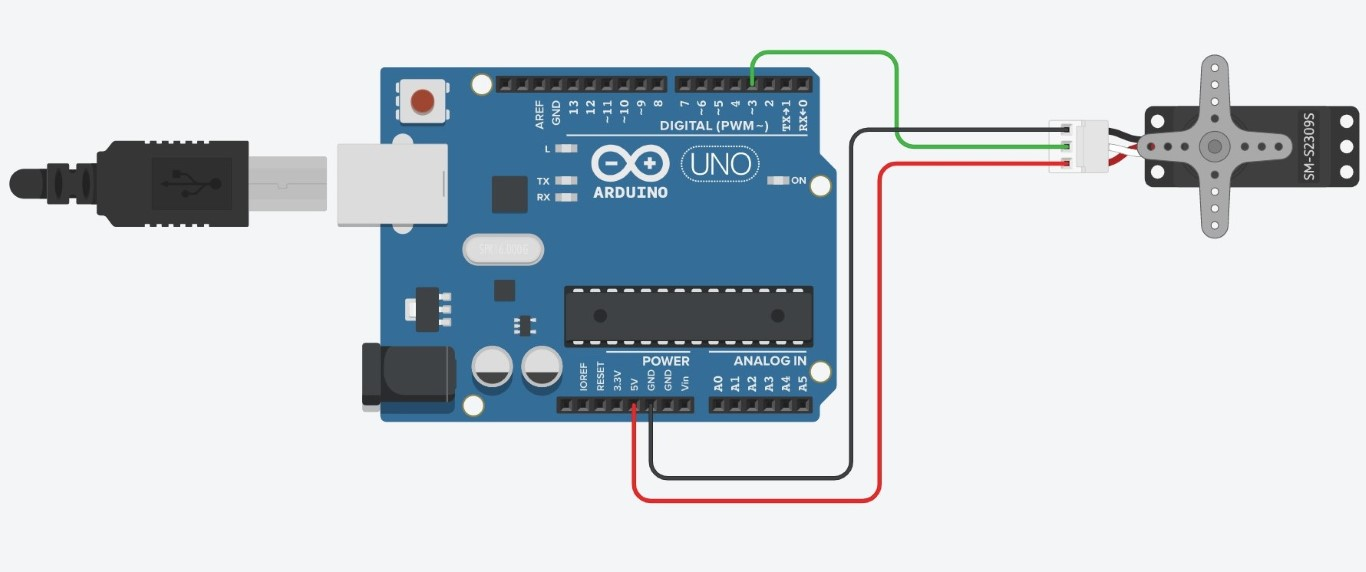
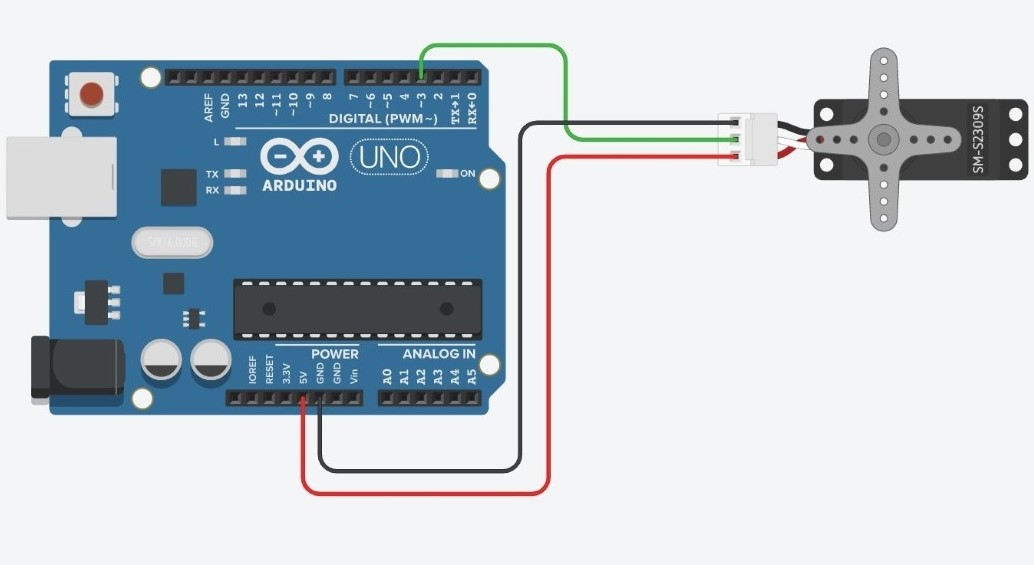
Major Updates!!! Added Arduino Create Added Servo Motor Guide Added Fancy Font

diff --git a/Servos.html b/Servos.html
@@ -35,12 +35,48 @@
   <a href=  "javascript:void(0)" class="dropbtn">Component Guides</a>
   <div class= "dropdown-content">
     <a href = "RGB LED.html">Multi-Colored LED</a>
+    <a href = "Servos.html">Servo Motors</a>
   </div>
   </li>
     </ul>
   </div>
-
     <div class = "text">
+      <h2> Servo Motors </h2>
+      <p>Servo motors are small motors that can turn to a specific angle between 0 and 180 degrees. Servos are very easy to connect to an Arduino and begin using.</p>
+      <h3>Wiring Servos to an Arduino</h3>
+      <p>To connect a servo to an Arduino, simply connect the two edge wires to the 5V and GND pins and the center wire to one of the PWM pins. You do not need a resistor to do this. Here is an example of a servo connected to the arduino on pin 3 with and without a breadboard.</p>
+      <div class = "imglink">
+        <a target = "_blank" href = "Images-original/Servo-Hookup.png">
+        <img src = "Images/Servo-Hookup.png" height = "230px">
+      </a>
+      </div>
+      <div class = "imglink">
+        <a target = "_blank" href = "Images-original/Servo-Hookup-NoBread.jpg">
+        <img src = "Images/Servo-Hookup-NoBread.jpg" height = "230px">
+      </a>
+      </div>
+      <br clear = all>
+      <p>You will want to use a breadboard if you are using the 5V pin for more than one device. For example, you might need to connect both a servo motor and a light sensor to the Arduino, which both need the 5V pin.</p>
+      <h3> The Servo Library </h3>
+      <p>To use the servo library, you must first put an include statement in the beginning of your code:</p>
+      <code class = "txt"><pre>  #<span style = "color: green">include</span> &lt;<span style = "color:red;"><b>Servo</b></span>.h></pre></code>
+      <p>This will allow you to use the functions from the servo library. To begin using your servo motor, you will need to create a servo object in your code. To create a servo object, write:</p>
+      <code class = "txt"><pre>  <span style = "color:red;"><b>Servo</b></span> servoName;</pre></code>
+      <p>Create the servo object by first typing the word Servo (capital ‘S’), then assigning it a name that you will use to refer to it later (you can think of this like declaring a variable). In this case, the name is servoName. You will put this line of code right after the “#include <Servo.h>” statement. </p>
+      <h4>void setup</h4>
+      <p>Within the void setup portion of your code, you will tell the Arduino which pin the servo is connected to with the attach function:</p>
+      <code class = "txt"><pre>  servoName.<span style = "color:red;">attach</span>(3);</pre></code>
+      <p>This line tells the computer that your servo motor is connected to pin 3.</p>
+      <h4>void loop</h4>
+      <p>Within the void loop portion of your code, you will tell the Arduino to move the servo to whichever position you want. To do this, use the write function:</p>
+      <code class = "txt"><pre>  servoName.<span style = "color:red;">write</span>(90);</pre></code>
+      <p>This function tells the Arduino to turn to the position 90 degrees. This doesn’t mean that the Arduino will turn 90 degrees from where it is now. It will turn to the position that is 90 degrees from some starting position. After you write this code you will need to include a “delay();” statement to give the servo time to move.</p>
+      <h3>Sample Code</h3>
+      <iframe src=https://create.arduino.cc/editor/ormesa-eb/10b9d36e-2de8-48ad-838e-0d5e897500f8/preview?embed style="height:510px;width:80%;margin:10px 0" frameborder=0></iframe>
+      <p>After uploading the code successfully, try changing the value within the function “myServo.write();” to 45. What happens?</p>
+      <iframe src=https://create.arduino.cc/editor/ormesa-eb/acb92735-cfaa-4aaa-b77b-a6270eff6666/preview?embed style="height:510px;width:80%;margin:10px 0" frameborder=0></iframe>
+      <p>This program tells the Arduino to rotate from 0 to 180 degrees by turning 1 degree at a time. In each iteration of the for loop, the Arduino increases the position by 1(“pos += 1”), tells the servo to turn to that position(“myServo.write”), then waits for the servo to turn that one degree (“delay”). To change the speed, simply change the number within the “delay” functions. To change the angles of rotation, change the “0” and “180” values inside the for loop to whatever you want it to be.</p>
+
     </div>
   </body>
 </html>

diff --git a/Interactive Lesson 2.html b/Interactive Lesson 2.html
@@ -35,6 +35,7 @@
 <a href=  "javascript:void(0)" class="dropbtn">Component Guides</a>
 <div class= "dropdown-content">
   <a href = "RGB LED.html">Multi-Colored LED</a>
+  <a href = "Servos.html">Servo Motors</a>
 </div>
 </li>
 
@@ -93,22 +94,10 @@
 
 <h4> Potentiometer Code </h4>
 <p>Now enter the following code into the Arduino IDE and upload it: </p>
-<pre> <code class = "txt">
-<span style = "color: blue;">int</span> reading = 0;
-
-<span style = "color: blue">void </span>setup(){
-  Serial.begin(9600);
-  Serial.println("MESA Rocks!");
-}
-
-<span style = "color: blue;">void </span>loop(){
-  reading = analogRead(A0);
-  Serial.print("Value: ");
-  Serial.println(reading);
-}
-</code></pre>
+<iframe src=https://create.arduino.cc/editor/ormesa-eb/37478716-9db0-4d74-9655-6aa0fa7fc4c4/preview?embed style="height:510px;width:80%;margin:10px 0" frameborder=0></iframe>
 <h4> Explore the Code </h4>
 <div class = "questions">
+<p>Discuss the following questions with your group:</p>
 <ol class = "a">
   <img src = "Images/Serial-Monitor.png" class = "img1" height = 60>
   <li> Click on the magnifying glass icon in the Arduino IDE. Turn the potentiometer and look at the values on the screen. What is going on? <br> <br> </li>
@@ -171,20 +160,7 @@
 <p>Notice that the code doesn’t change. Also note that the wire to A0, one wire from the sensor, and one wire from the resistor are all connected.  Move your hand over the sensor. How do the values change? Try switching the resistor and the sensor.  How does that change the values? </p>
 <h4> Code </h4>
 <p> (This is exactly the same as the code above.) </p>
-<pre> <code class = "txt">
-<span style = "color: blue;">int</span> reading = 0;
-
-<span style = "color: blue">void </span>setup(){
-  Serial.begin(9600);
-  Serial.println("MESA Rocks!");
-}
-
-<span style = "color: blue;">void </span>loop(){
-  reading = analogRead(A0);
-  Serial.print("Value: ");
-  Serial.println(reading);
-}
-</code></pre>
+<iframe src=https://create.arduino.cc/editor/ormesa-eb/37478716-9db0-4d74-9655-6aa0fa7fc4c4/preview?embed style="height:510px;width:80%;margin:10px 0" frameborder=0></iframe>
 <p>
   The photoresistor can be replaced with several different sensors.  Many sensors with only two wires can be inserted into the same location as the photoresistor and the code will work the same, many of the sensors with three wires will hook up the same as a potentiometer and the code will work.  Try switching out the photoresistor with a temperature sensor, or a flex sensor, or other sensors you may have available. <br>
   Now that you can see what values are being output on the serial monitor, you can adjust your code to do what you need it to do. Here is an example of how you could modify the code to be a nightlight:
@@ -204,25 +180,7 @@
 
 <h4> Code </h4>
 <p>Note: If you are in a bright room, you might need to change the value in the line <code> if(reading < 450){ </code> to be higher than 450. Look at the values on the serial monitor and choose a value that is larger than the values when your finger is on the sensor, but smaller than the values when your finger is off the sensor.</p>
-<pre><code class = "txt">
-<span style = "color: blue;">int</span> reading = 0;
-
-<span style = "color: blue;">void </span>setup(){
-  Serial.begin(9600);
-  pinMode(3,OUTPUT);
-}
-<span style = "color: blue;">void </span>loop(){
-  reading = analogRead(A0);
-  Serial.print("Value: ");
-  Serial.println(reading);
-  if(reading < 450){
-      digitalWrite(3,HIGH);
-  } else{
-    digitalWrite(3,LOW);
-  }
-  delay(100);
-}
-</code></pre>
+<iframe src=https://create.arduino.cc/editor/ormesa-eb/86d6ff32-5962-4b9b-b21b-b0b59e41e71a/preview?embed style="height:510px;width:80%;margin:10px 0" frameborder=0></iframe>
   <h3> Challenges </h3>
   <p>If you have extra time after completing lesson 1 and 2, you may work on the following challenges:</p>
   <ol class = "a">

diff --git a/Interactive Lesson 1.html b/Interactive Lesson 1.html
@@ -35,6 +35,7 @@
 <a href=  "javascript:void(0)" class="dropbtn">Component Guides</a>
 <div class= "dropdown-content">
   <a href = "RGB LED.html">Multi-Colored LED</a>
+  <a href = "Servos.html">Servo Motors</a>
 </div>
 </li>
     </ul>
@@ -203,23 +204,11 @@
 <h4> Code </h4>
 <p>To enter the code, open the Arduino IDE or another Arduino code editor. Before you do anything, in the selection bar at the top left, scroll over “Tools > Board” then click “Arduino Genuino Uno”. Next, scroll over “Tools > Ports” Then select the port that has “Arduino Genuino Uno” in parentheses. Next, enter the code and click “upload”. It should be the arrow pointing to the right. </p>
 
-<pre><code class = "txt">
-//The setup function runs once, it sets up for the main program
-<span style = "color: blue;">void </span>setup(){
-  pinMode(3, OUTPUT);
-}
-
-//The loop function runs over and over again, this is your main program
-<span>void </span>loop(){
-  digitalWrite(3,HIGH);
-  delay (500);
-  digitalWrite(3,LOW);
-  delay (500);
-}
-</code></pre>
+<iframe src=https://create.arduino.cc/editor/ormesa-eb/3618e8fc-c95c-41d6-a969-9b077e5f4bf2/preview?embed style="height:510px;width:80%;margin:10px 0" frameborder=0></iframe>
 <p> This is what it looks like on the computer screen: </p>
 <img src = "Images/BlinkCode1.png" height = 300px>
 <h4> Exploring the Code </h4>
+<p>Discuss the following questions with your group:</p>
 <div class = "questions">
 <ol class = "a">
   <li> Change the number in “delay” from 500 to 1000 and reupload the code. What happens? <br> <br></li>
@@ -231,21 +220,9 @@
 </div>
 <p> Now let’s add another light. Follow steps 1-4 on page 2 and 3 again in a different spot on the breadboard. This time, in step 4, connect the wire to pin 5 instead of pin 3.  Look at the code below, how does the wiring change?  What pins are wires connected to? </p>
 <h4> Code </h4>
-<pre><code class = "txt">
-<span style = "color: blue;">void</span> setup(){
-  pinMode(3, OUTPUT);
-}
-
-<span style = "color: blue;">void</span> loop(){
-  digitalWrite(3,HIGH);
-  digitalWrite(5,LOW);
-  delay (500);
-  digitalWrite(5,HIGH);
-  digitalWrite(3,LOW);
-  delay(500);
-}
-</code></pre>
+<iframe src=https://create.arduino.cc/editor/ormesa-eb/6ddb76fc-537b-4cd3-832a-0bbc1f872e2a/preview?embed style="height:510px;width:80%;margin:10px 0" frameborder=0></iframe>
 <h4> Exploring the Code </h4>
+<p>Discuss the following questions with your group:</p>
 <div class = "questions">
 <ol class = "a">
   <li> Why is the light different for pin 3 and for pin 5?  What is the problem with the code? What needs to be added to the setup? <br> <br> </li>

diff --git a/RGB LED.html b/RGB LED.html
@@ -35,6 +35,7 @@
 <a href=  "javascript:void(0)" class="dropbtn">Component Guides</a>
 <div class= "dropdown-content">
   <a href = "RGB LED.html">Multi-Colored LED</a>
+  <a href = "Servos.html">Servo Motors</a>
 </div>
 </li>
 
@@ -73,29 +74,13 @@
       <p>In void loop(), you will need to use the analogWrite(); function for each led color to determine how much of each color you want to show. In order to make the LED shine a specific color you will need the RGB code of that color. For example, the RGB code for midnight blue is 25-25-112. This means that the red LED should be set at a brightness of 25, the green LED should be set to a brightness of 25, and the blue led should be set to a brightness of 112. In the code, this will look like this:</p>
 <code class = "txt"><pre>
 <span style = "color:blue;">void</span> loop(){
-	analogWrite(redLED, 25);
-	analogWrite(greenLED, 25);
-	analogWrite(blueLED, 112);
+  analogWrite(redLED, 25);
+  analogWrite(greenLED, 25);
+  analogWrite(blueLED, 112);
 }
 </pre></code>
 <h3>Sample Code</h3>
-<code class = "txt"><pre>
-<span style = "color: blue;">int</span> redLED = 11;
-<span style = "color: blue;">int</span> blueLED = 10;
-<span style = "color: blue;">int</span> greenLED = 9; //Variables for LED pin numbers
-
-<span style = "color:blue;">void</span> setup(){
-  pinMode(redLED, OUTPUT);
-  pinMode(blueLED, OUTPUT);
-  pinMode(greenLED, OUTPUT); //Set each color to OUTPUT
-}
-
-<span style = "color:blue;">void</span> loop(){
-  analogWrite(redLED, 25); //Red: 25
-  analogWrite(greenLED, 25); //Green: 25
-  analogWrite(blueLED, 112); //Blue: 112
-}
-</pre></code>
+<iframe src=https://create.arduino.cc/editor/ormesa-eb/3fbaf639-6e9d-467d-8dfe-2ba05766dd2c/preview?embed style="height:510px;width:80%;margin:10px 0" frameborder=0></iframe>
 <p>After running this code, you should see the led turn a midnight blue color. Try looking up the RGB code of your favorite color online. Change the red, green and blue values in your code to the values that you found (red is the first number in the code, green is the second number, red is the third number).</p>
     </div>
   </body>

diff --git a/PWM.html b/PWM.html
@@ -35,6 +35,7 @@
 <a href=  "javascript:void(0)" class="dropbtn">Component Guides</a>
 <div class= "dropdown-content">
   <a href = "RGB LED.html">Multi-Colored LED</a>
+  <a href = "Servos.html">Servo Motors</a>
 </div>
 </li>
 
@@ -94,20 +95,7 @@
   <img src = "Images/DimmerDigital.png" height = 300px>
   <p style="clear:both;">
   <p>Next, type the following code into the Arduino IDE and click upload: </p>
-<code class = "txt"><pre>
-int ledPin = 11;
-
-<span style = "color: blue;">void</span> setup(){
-  pinMode(ledPin, OUTPUT);
-}
-
-<span style = "color: blue;">void</span> loop(){
-  analogWrite(ledPin, 100);
-  delay(750);
-  analogWrite(ledPin, 255);
-  delay(750);
-}
-</pre></code>
+<iframe src=https://create.arduino.cc/editor/ormesa-eb/ea7c7ca8-7d83-452f-9fb2-1bcd766158a7/preview?embed style="height:510px;width:100%;margin:10px 0" frameborder=0></iframe>
   <h3> Challenge </h3>
   <p>
   Now that you know how to use PWM, connect a potentiometer and an LED to the Arduino. Write a program that will make the LED dimmer or brighter depending on how far the potentiometer is turned. <br>

diff --git a/StyleSheet.css b/StyleSheet.css
@@ -1,3 +1,5 @@
+@import url(https://fonts.googleapis.com/css?family=Noto+Sans+TC&display=swap);
+
 @font-face {
   font-family: Montserrat;
   src: url(Montserrat-Regular.otf);
@@ -6,6 +8,7 @@
   font-family: liberata;
   src: url(LiberataBook.otf);
 }
+
 html{
   background-color: #fffff0;
 }
@@ -46,7 +49,7 @@ h4{
 }
 p{
   font-size: 18px;
-  font-family: liberata;
+  font-family: Noto Sans TC;
 }
 code.txt {
   font-size: 15px;
@@ -62,9 +65,9 @@ code.head {
 
 /*list*/
 ol.a{
+  font-family: Noto Sans TC;
   list-style-type: decimal;
   font-size: 18px;
-  font-style: liberata;
 }
 
 /* top bar */

diff --git a/index.html b/index.html
@@ -35,13 +35,14 @@
 <a href=  "javascript:void(0)" class="dropbtn">Component Guides</a>
 <div class= "dropdown-content">
   <a href = "RGB LED.html">Multi-Colored LED</a>
+  <a href = "Servos.html">Servo Motors</a>
 </div>
 </li>
 
     </ul>
   </div>
-    <img src = Images-Original/FrontPageImg.jpg width = "100%"">
   <div class = "text">
+  <img src = Images-Original/FrontPageImg.jpg width = "100%" style = "padding-top: 10px;">
   <h2>
     Welcome!
   </h2>

diff --git a/External Links.html b/External Links.html
@@ -33,6 +33,8 @@
     <li class=  "dropdown">
   <a href=  "javascript:void(0)" class="dropbtn">Component Guides</a>
   <div class= "dropdown-content">
+    <a href = "RGB LED.html">Multi-Colored LED</a>
+    <a href = "Servos.html">Servo Motors</a>
   </div>
   </li>
   <li class=  "dropdown">

diff --git a/Libraries.html b/Libraries.html
@@ -35,9 +35,9 @@
 <a href=  "javascript:void(0)" class="dropbtn">Component Guides</a>
 <div class= "dropdown-content">
   <a href = "RGB LED.html">Multi-Colored LED</a>
+  <a href = "Servos.html">Servo Motors</a>
 </div>
 </li>
-
     </ul>
   </div>
 <div class = "text">

diff --git a/Variables and Control Structures.html b/Variables and Control Structures.html
@@ -36,6 +36,7 @@
     <a href=  "javascript:void(0)" class="dropbtn">Component Guides</a>
     <div class= "dropdown-content">
       <a href = "RGB LED.html">Multi-Colored LED</a>
+      <a href = "Servos.html">Servo Motors</a>
     </div>
     </li>
 

diff --git a/MESA Template.html b/MESA Template.html
@@ -35,6 +35,7 @@
   <a href=  "javascript:void(0)" class="dropbtn">Component Guides</a>
   <div class= "dropdown-content">
     <a href = "RGB LED.html">Multi-Colored LED</a>
+    <a href = "Servos.html">Servo Motors</a>
   </div>
   </li>
     </ul>

diff --git a/Functions.html b/Functions.html
@@ -35,6 +35,7 @@
 <a href=  "javascript:void(0)" class="dropbtn">Component Guides</a>
 <div class= "dropdown-content">
   <a href = "RGB LED.html">Multi-Colored LED</a>
+  <a href = "Servos.html">Servo Motors</a>
 </div>
 </li>
     </ul>
